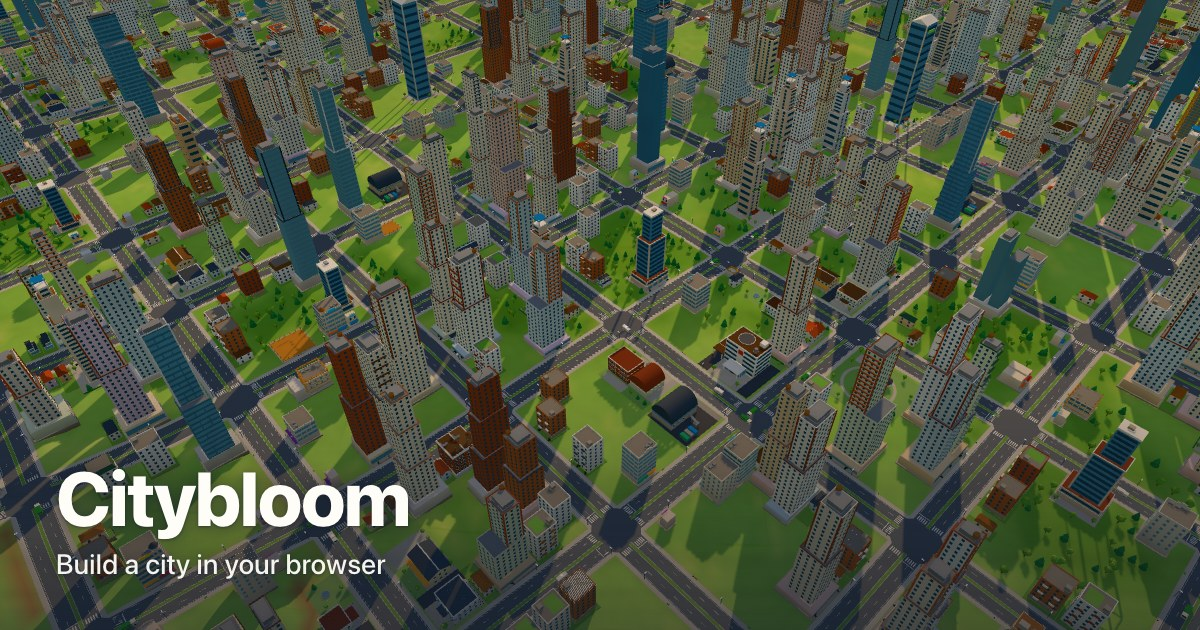
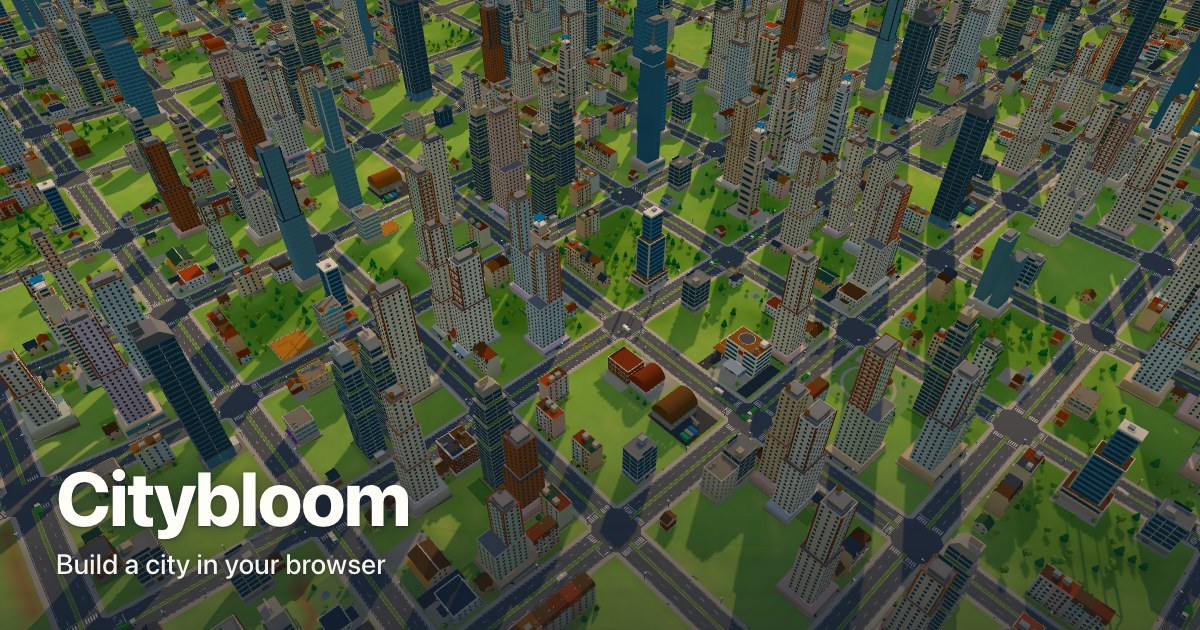
Model batch 2 logged: census before and after (bench city 17 % -> 75 % hand-made, demo town 25 % -> 91 %, Ashton 2 % -> 96 %), which models rarely appear and why, which files failed, notes for the owner, frame times (heavy view at High 10.9 ms, 9.7 before; 12 allowed); README shots and the share ima

diff --git a/e2e/m28-buildings.spec.ts b/e2e/m28-buildings.spec.ts
@@ -4,9 +4,10 @@ import { frames, settings, untilHour } from './ui';
 
 /**
  * M28: buildings and variety, in a grown city loaded through the real load screen (the menu's demo
- * town). No two touching buildings wear the same model; every building, generated or hand-made,
- * fades through its distant versions (none is drawn at full detail from every distance); and the
- * whole-city view draws fewer triangles than the 2.75M of the start of the phase.
+ * town). No two touching buildings look the same; every building on a lot two hand-made designs
+ * fit wears one (model batch 2); every building, generated or hand-made, fades through its distant
+ * versions (none is drawn at full detail from every distance); and the whole-city view draws fewer
+ * triangles than the 2.75M of the start of the phase.
  */
 test('M28: no identical neighbours, a distant version for every building, a lighter whole-city view', async ({
   page,
@@ -31,6 +32,37 @@ test('M28: no identical neighbours, a distant version for every building, a ligh
   expect(n.pairs).toBeGreaterThan(300);
   expect(n.identical).toBe(0);
   expect(n.looks).toBeGreaterThan(200);
+
+  // Hand-made models where they fit (model batch 2): every building on a lot two designs or more
+  // fit wears one of them; on a lot one design fits, every other look.
+  const worn = await page.evaluate(() => {
+    const g = window.__game!;
+    const designs = g.getHandDesigns().filter((d) => d.kind === 'zoned');
+    const fits = (d: { w: number; d: number }, W: number, D: number) => {
+      const k = Math.round(W / d.w);
+      return k >= 1 && k <= 3 && Math.abs(k * d.w - W) < 0.05 && d.d <= D + 0.05;
+    };
+    const out = { buildings: 0, hand: 0, many: 0, manyHand: 0, one: 0, oneHand: 0 };
+    for (const m of g.getModels()) {
+      const n = designs.filter((d) => d.def === m.def && fits(d, m.w * 8, m.d * 8)).length;
+      out.buildings++;
+      if (m.hand) out.hand++;
+      if (n >= 2) {
+        out.many++;
+        if (m.hand) out.manyHand++;
+      } else if (n === 1) {
+        out.one++;
+        if (m.hand) out.oneHand++;
+      }
+    }
+    return out;
+  });
+  console.log(`[m28] hand-made: ${JSON.stringify(worn)}`);
+  expect(worn.manyHand).toBe(worn.many);
+  expect(worn.many).toBeGreaterThan(500);
+  expect(worn.oneHand).toBeGreaterThan(worn.one * 0.3);
+  expect(worn.oneHand).toBeLessThan(worn.one);
+  expect(worn.hand).toBeGreaterThan(worn.buildings * 0.8);
 
   // City zoom: buildings near, far and on the skyline, none drawn the old way at every distance.
   await page.evaluate(() => window.__game!.setCamera('city'));

diff --git a/e2e/m25-models.spec.ts b/e2e/m25-models.spec.ts
@@ -84,7 +84,19 @@ test('M25: the tenement grows through normal zoning: three abreast, lit at night
       .join(' ')}`,
   );
   expect(hand.length).toBeGreaterThan(20);
-  expect(models.length - hand.length).toBeGreaterThan(20);
+  // Generated looks only where fewer than two designs fit the lot (model batch 2: two designs or
+  // more, every look hand-made).
+  const designs = await page.evaluate(() =>
+    window.__game!.getHandDesigns().filter((d) => d.kind === 'zoned'),
+  );
+  const fitting = (m: { def: string; w: number; d: number }) =>
+    designs.filter((d) => {
+      const k = Math.round((m.w * 8) / d.w);
+      return (
+        d.def === m.def && k >= 1 && k <= 3 && Math.abs(k * d.w - m.w * 8) < 0.05 && d.d <= m.d * 8 + 0.05
+      );
+    }).length;
+  for (const m of models.filter((m) => !m.hand)) expect(fitting(m), `${m.def}@${m.w}x${m.d}`).toBeLessThan(2);
   // Tenements on the type's own lot: 24 m wide, three 8 m copies.
   const rows = models.filter((m) => m.def === 'R103' && m.hand === 'R103');
   expect(rows.length).toBeGreaterThan(0);

diff --git a/PROGRESS.md b/PROGRESS.md
@@ -77,9 +77,10 @@ cities, a grace for cities meeting seasons for the first time, and level-crossin
 trams that give way (DECISIONS, "Phase 2 review").
 
 **Phase 3 (graphics, M25–M28)** made it look the part without touching the simulation. The owner's
-hand-made building models (136 so far: every zoned type, 46 civic buildings, annexes) are checked
-against their spec, converted at build time and stand in wherever they fit, painted from the game's
-palettes, with far and skyline versions that fade in by a dither (M25). Light and sky: cascaded
+hand-made building models (176 so far: every zoned type, second designs sized for the lots buildings
+actually stand on, 46 civic buildings, annexes) are checked against their spec, converted at build
+time and stand in wherever they fit, painted from the game's palettes, with far and skyline versions
+that fade in by a dither (M25); three buildings in four in a grown city wear one. Light and sky: cascaded
 shadows fitted to the ground in view, soft occlusion in corners, a glow round lit windows at night,
 golden and blue hours, bounce light and haze, Neutral tone mapping (M26). Ground, lots and streets:
 grass with fields, hedgerows and worn paths, empty zoned land as a faint tint and outline, kerbs,
@@ -105,64 +106,108 @@ against 22–25 at the start of the phase; the whole-city view draws 1.7M triang
    (ski resorts in winter, beaches in summer).
 7. **More specialisations** (education hub, gambling/entertainment, electronics) using the same
    building + economy pattern as M10.
-8. **More hand-made models**: 8 m wide family houses and villas and 16 m versions of the 24 m
-   level-2 and -3 buildings would let models stand on the lots buildings actually grow on (PROGRESS,
-   "Models"); a procedural window shader would let distant homes' windows merge too.
+8. **More hand-made models** (PROGRESS, "Models"): second designs for the lots one design fits
+   (they alternate with generated looks there), a 24 × 24 m skyline tower and headquarters (105 of the
+   bench city's R213s stand on 24 × 24 m lots no design fits), and high-wealth and high-tech types once
+   cities grow them; a procedural window shader would let distant homes' windows merge too.
 9. **Balance**: commercial demand runs a little low in small towns; the big-city running costs and
    the scenario star thresholds want a second look once real players have tried them.
 
 ## In progress
-Every milestone in SPEC.md, SPEC-2.md and SPEC-3.md is done, and phase 3's wrap-up with it: the
-summary above, SPEC_REVIEW, the README's screenshots, the social image, and a walk-through at every
-zoom, hour and season with what it found fixed (SPEC_REVIEW, "When every milestone is done (phase
-3)"). Nothing is left in progress.
+Every milestone in SPEC.md, SPEC-2.md and SPEC-3.md is done, and so is model batch 2 (below,
+"Models"): the owner's second batch is in, sized for the lots buildings stand on. Nothing is left in
+progress.
 
 ## Next tasks
-1. The owner: push the branch (`git push -u origin phase-3`; this machine's git has no GitHub
-   credentials) and merge it into `main` when happy, which publishes the site.
-2. Bring in new models as they arrive in `assets/models/` (`npm run models:check`).
-3. Ideas below.
+1. The owner: merge `phase-3` (pushed to GitHub) into `main` when happy, which publishes the site.
+2. Bring in new models as they arrive in `assets/models/` (`npm run models:check`), and pass the
+   notes under "Models" to the owner for any remakes.
+3. Ideas above.
 
 ## Models (phase 3)
-136 files in `assets/models/` (every zoned type, `R103-2`, 8 annexes, 46 civic buildings);
-`npm run models:check` passes all 136. Converted: 169k triangles in the files, 139k drawn near, 82k
-far, 50k in the skyline; the models file is 2.3 MB (0.8 MB gzipped), fetched at start.
+176 files in `assets/models/`: the first batch (136: every zoned type, `R103-2`, 8 annexes, 46 civic
+buildings) and the second (`docs/models/PROMPTS-2.md`: 40 designs sized for the lots buildings stand
+on, and a remade `C213`). `npm run models:check` passes all 176. Converted: 194k triangles in the
+files, 165k drawn near, 111k far, 69k in the skyline; the models file is 2.9 MB (0.9 MB gzipped),
+fetched at start.
 
 | File | Status |
 |---|---|
 | `R103.glb` (the tenement) | passes as a row model (8 × 16 m, three abreast on its 24 m lot, two on a 16 m lot), with notes: 16 m deep on a 24 m lot, and trim, steps and the awning overhang its footprint by up to 1.5 m |
 | `library.glb`, `primary.glb`, `university.glb` | failed as first delivered (a gable or wall slid 4–9 m off its building: "a wall hangs in the air", and the library was 24 m wide on its 20 m site); the owner's fixed files pass |
-| the other 132 | pass with no notes |
+| 13 of batch 2: `C103-2`, `C113-2`, `C213-2`, `I003-2`, `I013-2`, `I013-3`, `I103-2`, `I113-2`, `I213-2`, `R202-2`, `R203-2`, `R212-2`, `R213-2` | skipped under the first rules (a zoned model had to be its type's lot, or a half or a third of its width: "is 16 × 24 m; its lot is 24 × 32 m"); pass since a zoned model may be any whole number of cells up to its type's lot (DECISIONS, "Model batch 2"), and the check names the lots each is for |
+| `I101-2`, `I111-2` | failed as "the front faces along X": the canopy over the loading docks down their side counted as an entrance; pass since a canopy over garage doors counts as a dock |
+| all 41 batch-2 files | pass with a note: their lawns lie at 1 cm and paths at 4 cm, under and level with the game's 4 cm lot base, so drives and paths flickered; the game now lifts a model's ground to 5 cm (in future files, 5 cm and up) |
+| `C213.glb` (remade) | lights window by window: 285 runs of 5.6–6.3 m (the first had 52 floor-wide bands), in its near, far and skyline versions alike; the README's screenshots and the share image are retaken with it |
+| the other first-batch files | pass with no notes |
 
-Things seen in the models while reviewing every one in the game (they pass the check and are in; for
-the owner, if a model is ever remade):
-- `C213`: its window groups each run a floor wide, so at night a lit floor is one bright band and
-  the tower reads as a striped lightbox from far off; several groups a floor would light as windows.
-- `firestation`: a thin strip of roof along the ridge sits a little proud of the roof.
-- `skyneedle`: benches stand inside the planters at its foot.
-- `nuclear`: the cooling towers' bases run into the boundary wall.
-- `recycling`: the shed roofs' end caps are in the roof material, so they repaint with the roof.
-- `C223`: the lobby glass lies in the plane of the wall (it can shimmer at a distance).
-- `university`: the back walls of the wings have no windows.
-- Several civic sites leave no clear back corner, so an add-on annex stands at the nearest clear
-  spot, shrunk (the clinic's and the police station's most).
-- `tree_spot`s within a metre or two of a wall put a tree's crown into the wall (a few homes).
+Which way they face (`npx tsx scripts/dev/modelturn.ts`): none fails as delivered; turned half round
+155 of 168 are caught (154 before batch 2's change to docks and garage doors), a quarter round 160
+(159), and every model caught before still is. The rest were never caught: they are symmetrical or
+have entrances on more than one side (half round: `C213`, `C213-2`, `I103`, `I113`, `R003`, `R013`,
+`R023`, `R103-2`, `R113`, `R123`, `grandarch`, the two parks; a quarter round: `C103`, `C113`, `C123`,
+`C213-2`, `R003-2`, `R013-2`, the parks).
 
-**Models that pass but rarely or never appear** (a lot-size matter, not a fault in the models): a
-model stands only on a lot as wide as it (or two or three times as wide, in a row) and at least as
-deep. Buildings start at level 1 on the level-1 lot and an upgrade widens only if the cells beside
-it are free, which on a built-up street they aren't. So in played cities:
-- **Family houses and villas (`R002`, `R012`, `R022`, `R003`, `R013`, `R023`, 16 m wide) never
-  appear**: low-density homes stay one cell (8 m) wide (in 50 saved cities, 4,398 villas, none on a
-  16 m lot). Only the cottages (`R0x1`, 8 m) fit. Versions 8 m wide (8 × 16 or 8 × 24 m) would.
-- Level-2 and -3 medium- and high-density buildings mostly stay on 16 m lots: the 24 m models
-  (`R1x3` courtyard blocks, `C1x3`, `R2x2`/`R2x3`, `C2x2`/`C2x3`, …) appear only where a lot did widen
-  (the tenement, 8 m wide, fits everywhere its type grows).
-- In the bench city 17 % of buildings wear hand-made models, in the menu's demo town 25 %
-  (`node scripts/dev/modelcensus.mjs <save>` lists them by type and lot). The rest are generated,
-  refreshed in M28 to sit with them. A smaller sibling's model doesn't stand in on a lot its own
-  type's model can't fit (DECISIONS M28): 8 m wide versions of the family houses and villas, and
-  16 m versions of the 24 m level-2 and -3 buildings, are what would bring more of them into cities.
+**Who wears them** (`node scripts/dev/modelcensus.mjs <saves …>`; logs in `bench-results/batch2/`):
+
+| City | Buildings | First batch only | Batch 2 under the first rules | Now |
+|---|---|---|---|---|
+| Bench city (110k) | 2,158 | 359 (17 %) | 956 (44 %) | 1,618 (75 %) |
+| Menu demo town | 1,001 | 252 (25 %) | 580 (58 %) | 914 (91 %) |
+| `Saves/Ashton.citybloom` | 192 | 3 (2 %) | 111 (58 %) | 184 (96 %) |
+
+Where two designs or more fit a lot every building wears one; where one fits, it alternates with
+generated looks (DECISIONS, "Model batch 2"). The bench city's 540 generated buildings stand on lots
+one design fits (393: R213 on 24 × 32 and 16 × 24–32 m, C113 on 16 × 16, I211 and I201 on 24 × 24, …)
+or none does (147: 105 R213 skyline towers and 10 headquarters on 24 × 24 m lots, 7 I012 on 16 × 16).
+
+**Models that rarely or never appear, and why** (across the three cities):
+- First-batch designs sized for their type's own lot, where the type's buildings stand on smaller
+  lots (batch 2 covers those now): the 16 m villas and family houses `R013`, `R003`, `R012`, `R002`,
+  `R023` (789 such homes, every one 8 m wide), the courtyard blocks `R113` and `R103-2` (24 × 24; 474
+  of their types' 475 buildings stand on 16 m lots), apartment blocks `R112`, `R102`, market halls `C013`, `C003` (16 m; 142 stand on
+  8 m lots), department stores and offices `C113`, `C103`, `C112`, `C102`, plants `I013`, `I003`,
+  `I012`, `I112`, `I102`, complexes `I103`, `I113` (24 × 32; most stand on 16 m lots) and the towers
+  `R203`, `R202`, `C203`, `C202`, `I203`.
+- Types that hardly grow in these cities: no high-wealth homes, shops or offices (`R02x`, `R12x`,
+  `R22x`, `C02x`, `C12x`, `C22x`) and no high-tech industry (`I02x`, `I12x`, `I22x`) in any of them, and
+  next to no `C101`, `I002`, `I102`.
+- Batch-2 designs worn by few: `C102-2` (2: two low-wealth office blocks in all three cities),
+  `C103-2` (3 of 10 low-wealth department stores), `R002-2` (4 of 10), `R102-2` (4 of 6), `C001-2` (5
+  of 9), `C002-2` (7 of 11): few of their type grow, and a lone design leaves every other look to the
+  generator. The rest are well used (`R013-2` and `-3` 445 between them, `R113-2` and `-3` 397, `R003-2`
+  and `-3` 300, `R213-2` 77 …).
+
+**Notes on the models for the owner**, from reviewing every batch-2 design in the game (they pass
+and are in):
+- Lawns and paths: lay them 5 cm up or more (the game lifts lower ones, see above).
+- `R201-2`, `R213-2` (and `C213-2` a little): window bands about 8 m long, two a floor; where both
+  are lit at night a floor reads as one stripe. Runs of 3–4 m would read as windows (the remade
+  `C213`'s 6 m runs read well).
+- Sawtooth roofs (`I013-2`, `I013-3`, `I011-2`, `I003-2`, `I101-2`, `I111-2`, `I103-2`, `I113-2`):
+  hairline gaps between the glazing and the roof planes show the grass through.
+- Wealth levels alike: `R102-2` is nearly `R112-2`, and the low-wealth villas and family houses
+  (`R003-2`, `R003-3`, `R002-2`) nearly the medium-wealth ones; `R213-2` and `R203-2` are both navy
+  glass towers. A silhouette of their own would tell the streets apart.
+- `R113-2`: a dark strip with slit windows at each side of its front shows between copies standing
+  side by side (a party wall would be plain).
+- `C213-2`: the "two-storey glass lobby" is a solid wall with a door; its sign panel reads as one
+  more window. `C013-2`, `C013-3`: the sign is a blank cream plaque close to the wall's colour.
+- `I003-2`, `I001-2`: brown roller doors on brick barely show. `I213-2` looks slight beside its
+  neighbours, much of its lot bare paving.
+- `R101-2` reads as two and a half storeys (three asked); `R013-2`, `R003-2`: from behind the dormer
+  roof pokes above the ridge; `R001-2`: its side hedges run the whole lot as thin tall walls.
+- `C113-2`, `C103-2`: their grey roofs and navy signs are too far from the game's palettes to be
+  repainted, so every copy keeps them.
+
+From the first batch (still open): `firestation`: a thin strip of roof along the ridge sits a little
+proud of the roof. `skyneedle`: benches stand inside the planters at its foot. `nuclear`: the cooling
+towers' bases run into the boundary wall. `recycling`: the shed roofs' end caps are in the roof
+material, so they repaint with the roof. `C223`: the lobby glass lies in the plane of the wall (it can
+shimmer at a distance). `university`: the back walls of the wings have no windows. Several civic
+sites leave no clear back corner, so an add-on annex stands at the nearest clear spot, shrunk (the
+clinic's and the police station's most). `tree_spot`s within a metre or two of a wall put a tree's
+crown into the wall (a few homes, and two at the back of the remade `C213`).
 
 ## Known issues
 - Photo mode's depth of field is a screen-space gather: fine for stills, but thin bright things right against a blurred background can show a faint halo, and saving at 2× takes up to a minute on this VM's software renderer (a fraction of a second on a GPU).
@@ -321,6 +366,28 @@ The heaviest view at High is 10.0 ms (12 allowed; 25.1 at the start in this run)
 view draws 152 calls and 1.75M triangles (289 and 2.69M at the start). Medium and Low are faster than
 at the start in the whole-city and heavy views and at Medium's city zoom, and slower close up as
 recorded for M28 (DECISIONS M28).
+
+**Model batch 2** (three buildings in four hand-made), in runs alternating with the build before the
+batch (the first 136 models, commit 9e7a42e): after / before, average ms of two runs each
+(`bench-results/batch2/frames-*.log`):
+
+| | whole city | city | street | whole city, night | city, night | street, night | heavy |
+|---|---|---|---|---|---|---|---|
+| High | 8.7 / 8.6 | 13.1 / 11.6 | 9.1 / 8.3 | 11.1 / 10.3 | 12.9 / 11.7 | 9.2 / 8.4 | **10.9 / 9.7** |
+| Medium | 4.9 / 4.5 | 4.3 / 3.9 | 3.4 / 3.1 | 5.3 / 4.9 | 4.8 / 4.3 | 3.5 / 3.2 | 5.0 / 4.7 |
+| Low | 3.2 / 2.9 | 2.6 / 2.7 | 1.8 / 1.7 | 2.9 / 2.9 | 2.6 / 2.7 | 1.8 / 1.8 | 3.0 / 2.9 |
+
+The heaviest view at High is 10.9 ms (10.5 and 11.2 in the two runs; 12 allowed): the hand-made
+buildings cost about 1 ms a frame at High at city and street zoom and in the heavy view, 0.3–0.5 ms at
+Medium, nothing measurable at Low (DECISIONS, "Model batch 2"). Colour-pass triangles (`passprobe`):
+the whole-city view 1.76M against 1.74M, city zoom 1.65M against 1.49M (buildings 728k against 604k,
+trees from the models' tree spots 244k against 206k), street level 1.04M against 0.93M. Every Medium
+view stays under 5.5 ms and every Low view under 3.5 ms. A view at High varies by up to 2 ms from one
+run to the next, so two alternating pairs are averaged. Checks: 392 unit tests and all 42 e2e specs;
+the M28 spec loads the demo town through the load screen: 1,308 touching pairs, none looking alike
+(now compared by design, paint and mirroring), every building on a lot two designs fit hand-made (805
+of 805), 0.95M triangles from the whole-city view; the M25 spec's town is 53 of 57 hand-made, with
+generated looks only where fewer than two designs fit.
 
 ## Real hardware (Phase 2 review)
 - The ~110k bench city on a MacBook Pro M5, High graphics, 3× speed: about 60 fps (58–65) in Safari in every view (whole city, mid-zoom, street level, night, a tornado), which is Safari's 60 fps cap; in Chrome at 120 Hz, 100–118 fps with 1.5–4.4 ms of frame work. 287 draw calls and 2.75M triangles at the whole-city view. Sim tick avg 0.6–0.8 ms, worst 6 ms, at 24 ticks a second: the worst ticks this VM measured (15–28 ms) are the VM, so the profile-guided pass on the matcher and happiness (review item 6) was dropped.

diff --git a/README.md b/README.md
@@ -13,10 +13,11 @@ city from time to time.
 
 ![A grown city of 110,000 in the afternoon](docs/screenshots/phase3-city.jpg)
 
-The city is drawn bright, warm and toy-like: hand-made buildings stand beside generated ones, each
-with lighter versions for the distance; the sun crosses the sky through golden and blue hours,
-lit windows glow at night, grass and trees turn with the seasons, and fields, kerbs, zebra
-crossings and benches make a grown city read as a place. Graphics quality (High, Medium, Low)
+The city is drawn bright, warm and toy-like: most buildings wear hand-made models (three in four
+in a grown city), beside generated ones in the same style, each with lighter versions for the
+distance; the sun crosses the sky through golden and blue hours, lit windows glow at night, grass
+and trees turn with the seasons, and fields, kerbs, zebra crossings and benches make a grown city
+read as a place. Graphics quality (High, Medium, Low)
 switches each effect.
 
 ![The same city at night](docs/screenshots/phase3-night.jpg)
